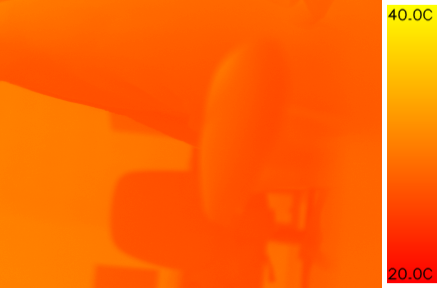
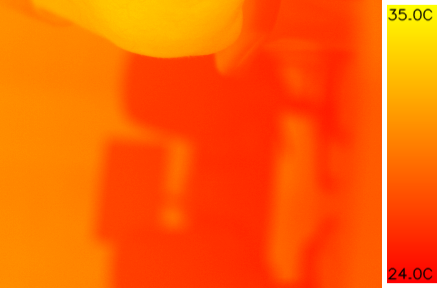
Outro teste realizado

diff --git a/main.py b/main.py
@@ -1,5 +1,5 @@
 from classes import *
 
 camera = EvoIRCamera(palette_id=11)
-camera.start_acquisition(focus=80, temp_min=20.0, temp_max=40.0)
+camera.start_acquisition(focus=80, temp_min=25.0, temp_max=35.0)
 camera.close()
